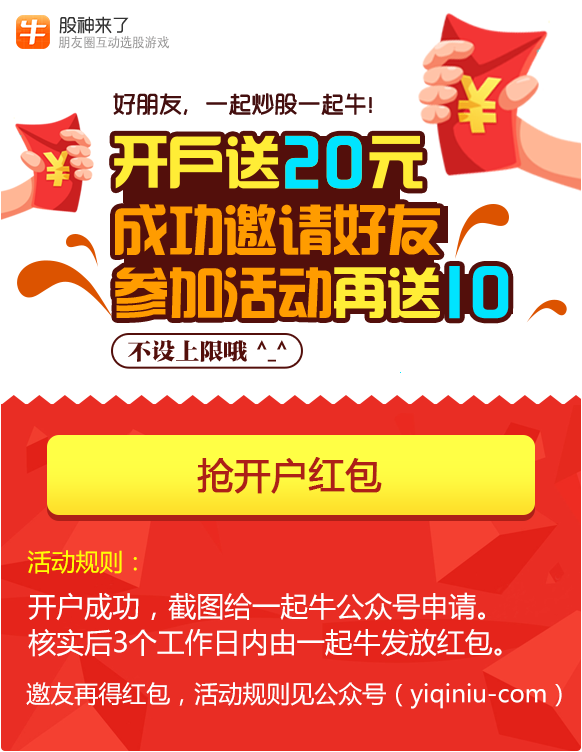
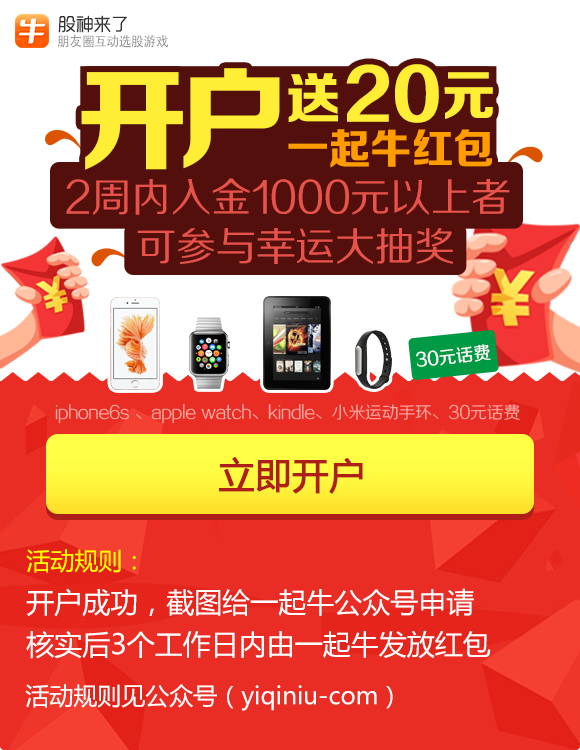
1.修改广告

diff --git a/html/promotion/2015901/ranking.html b/html/promotion/2015901/ranking.html
@@ -6,7 +6,7 @@
     <div class="main no-padding-trl" id="main" style="display:none;">
       <!-- banner -->
       <div class="r-banner">
-        <a href="#"><img src="../../../static/promotion/2015901/images/pic_banner.jpg" /></a>
+        <a href="#"><img src="../../../static/promotion/2015901/images/pic_banner_old.jpg" /></a>
       </div>
       <!-- 我的排名 -->
       <div class="r-own">

diff --git a/static/promotion/2015901/js/deposit.js b/static/promotion/2015901/js/deposit.js
@@ -11,7 +11,7 @@ var depositHandler = {
   advertRequest: function() {
 
     var params = {
-      positionGroup : 1004,
+      positionGroup : 2101,
       count : 5
     };
 

diff --git a/static/promotion/2015901/js/journal.js b/static/promotion/2015901/js/journal.js
@@ -26,7 +26,7 @@ var journalHandler = {
   advertRequest: function() {
 
     var params = {
-      positionGroup : 1004,
+      positionGroup : 2101,
       count : 5
     };
 

diff --git a/static/promotion/2015901/js/ranking.js b/static/promotion/2015901/js/ranking.js
@@ -14,7 +14,7 @@ var rankingHandler = {
   advertRequest: function () {
 
     var params = {
-      positionGroup: 1004,
+      positionGroup: 2101,
       count: 5
     };
 
